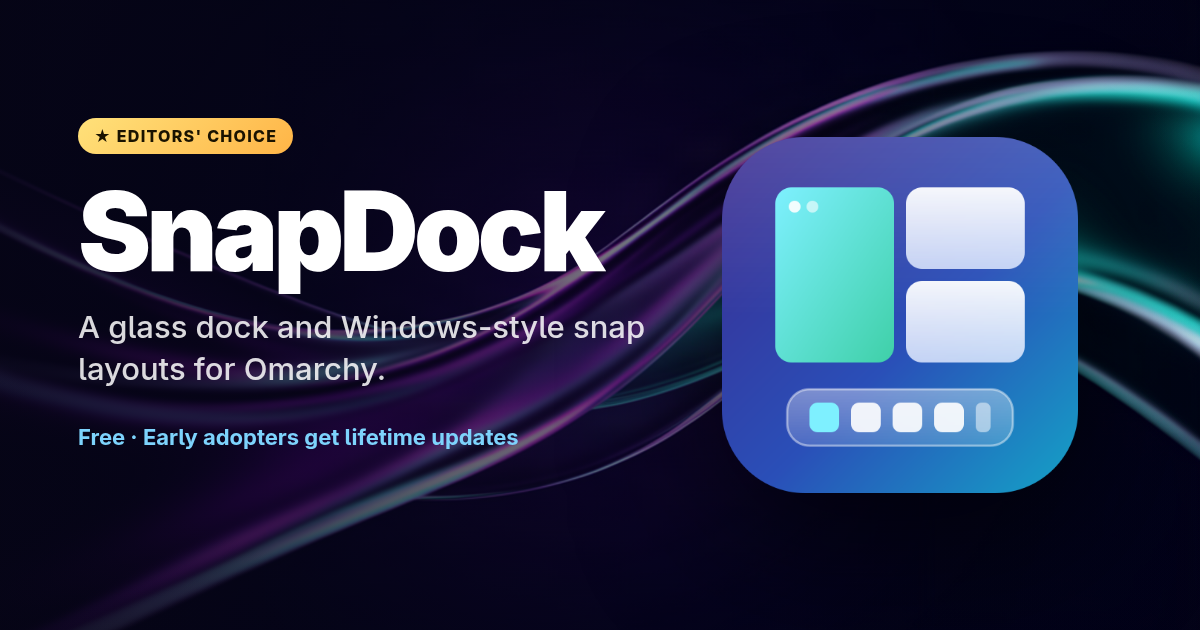
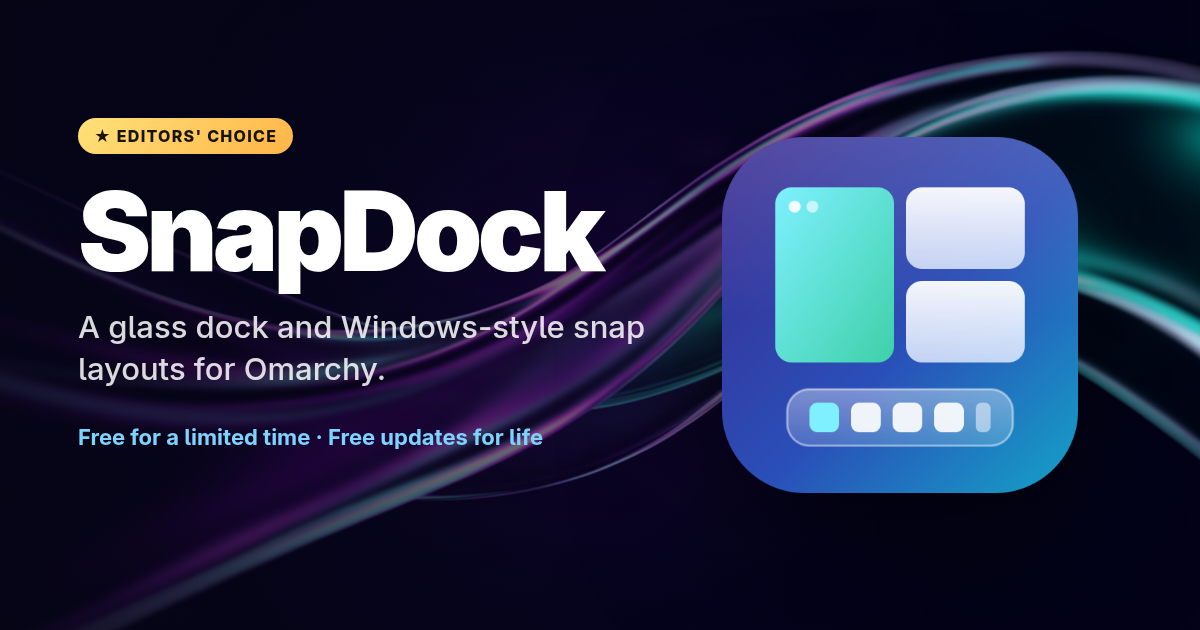
SnapDock: free for a limited time, free updates for life (was 'early adopters get lifetime updates'); Ignite plan doc

Changed region(s): [[0.0925, 0.6635, 0.4625, 0.7238]]

diff --git a/promo/snapdock/scenes.html b/promo/snapdock/scenes.html
@@ -205,7 +205,7 @@ if (s === "hero") {
     <div style="display:inline-flex;align-items:center;gap:8px;padding:8px 16px;border-radius:999px;font:800 16px 'Adwaita Sans';letter-spacing:.08em;color:#1a1300;background:linear-gradient(135deg,#ffe17a,#ffb547)">★ EDITORS' CHOICE</div>
     <div style="font:900 110px/1 'Adwaita Sans';letter-spacing:-5px;margin-top:22px">SnapDock</div>
     <div style="font:500 31px/1.35 'Adwaita Sans';color:rgba(255,255,255,.85);margin-top:20px;max-width:600px">A glass dock and Windows-style snap layouts for Omarchy.</div>
-    <div style="font:700 22px 'Adwaita Sans';color:#7dd3fc;margin-top:34px">Free · Early adopters get lifetime updates</div>
+    <div style="font:700 22px 'Adwaita Sans';color:#7dd3fc;margin-top:34px">Free for a limited time · Free updates for life</div>
   </div>`);
 }
 </script>

diff --git a/docs/ignite-plan.md b/docs/ignite-plan.md
@@ -1,0 +1,30 @@
+# Ignite for Omarchy: one-step install plan (agreed 2026-10-10)
+
+Goal: someone on Windows gets Omarchy (with the Omarchy Store built in) in one download, no Rufus.
+
+## Flow
+1. **Website, "Download Ignite"** asks: *Fresh install* (erase this PC, Omarchy only) or *Keep Windows*
+   (Omarchy next to it, 50 / 100 / 200 GB). The download is preset with that choice (one Ignite app).
+2. **Ignite on Windows** repeats the choice on an **"Are you sure you want to do this?"** screen that spells out
+   exactly what will happen, then the user confirms (types the word shown). Then:
+   - Fresh install: big red "everything on this PC will be erased" warning; offers to copy Documents,
+     Pictures and Desktop to the USB's spare OMARCHY-FILES drive. Writes the USB. Doesn't touch the PC's drive.
+   - Keep Windows: checks BitLocker, makes a restore point, shrinks Windows (Make-room-for-Omarchy logic,
+     windows-helper/), turns off Fast Startup. Writes the USB.
+   - Downloads the newest official Omarchy (or the Omarchy + Store edition), checks SHA-256, writes it,
+     turns the rest of the stick into OMARCHY-FILES, saves the choice on the stick, restarts into the boot menu.
+3. **On the USB (Omarchy + Store edition)** a second **"Are you sure you want to do this?"** screen before
+   anything is installed, naming the exact drive:
+   - Fresh install: "This will ERASE: <drive model, size, contains Windows>". Type ERASE to go on; anything else cancels.
+   - Keep Windows: uses only the free space; the erase-everything option is blocked. Stops and explains if no free space.
+
+## Open questions
+- Can Omarchy's installer be preset (mode/disk)? If yes, our confirm screen hands the choice over; if not, it runs first and tells the user what to pick.
+- Code-signing certificate (~$200–400/yr) to avoid the "Windows protected your PC" warning.
+
+## Build order
+1. Ignite for Windows (questions, confirm screen, USB write, make room, file copy, restart) + Windows VM test with a fake USB.
+2. Omarchy + Store edition ISO with the on-USB confirm screens.
+3. Website: questions on the download button.
+
+Nothing goes public until tested in the Windows VM.
